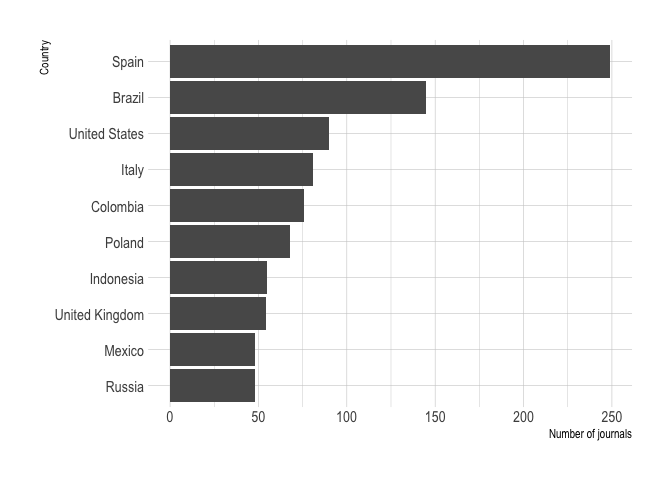
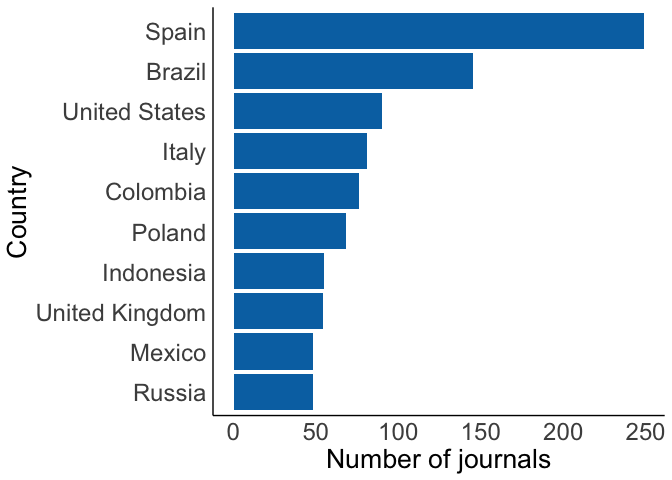
ojs global paper changes

diff --git a/scripts/ojs_global_paper.md b/scripts/ojs_global_paper.md
@@ -1,6 +1,6 @@
 Assessing OJS overlaps with scientometric databases
 ================
-Updated: July 15, 2022
+Updated: July 20, 2022
 
 -   <a href="#cleaning-raw-beacon-data"
     id="toc-cleaning-raw-beacon-data">Cleaning raw beacon data</a>
@@ -91,7 +91,7 @@ df <-
   distinct(oai_url, repository_name, set_spec, .keep_all = T)
 ```
 
-Total active OJS journals:
+Total active journals using OJS (JUOJS):
 
 ``` r
 df %>% count()
@@ -102,7 +102,7 @@ df %>% count()
     ##   <int>
     ## 1 25671
 
-Total articles published:
+Total articles published in active JUOJS:
 
 ``` r
 df %>% summarise(total = sum(total_record_count, na.rm = T))
@@ -177,8 +177,13 @@ df %>%
   head(10) %>% 
   mutate(country = fct_inorder(country) %>% fct_rev()) %>% 
   ggplot(aes(country, n)) +
-  geom_col() +
-  hrbrthemes::theme_ipsum() +
+  geom_col(fill = "#0072B2") +
+  theme_classic() +
+  theme(
+    axis.title = element_text(size = 20),
+    axis.text = element_text(size = 18),
+    axis.ticks = element_blank()
+  ) +
   coord_flip() +
   labs(
     x = "Country", y = "Number of journals"
@@ -254,8 +259,13 @@ bind_rows(df_join_a, df_join_b) %>%
   head(10) %>% 
   mutate(country = fct_inorder(country) %>% fct_rev()) %>% 
   ggplot(aes(country, n)) +
-  geom_col() +
-  hrbrthemes::theme_ipsum() +
+  geom_col(fill = "#0072B2") +
+  theme_classic() +
+  theme(
+    axis.title = element_text(size = 20),
+    axis.text = element_text(size = 18),
+    axis.ticks = element_blank()
+  ) +
   coord_flip() +
   labs(
     x = "Country", y = "Number of journals"
@@ -332,8 +342,13 @@ bind_rows(df_join_a, df_join_b) %>%
   head(10) %>% 
   mutate(country = fct_inorder(country) %>% fct_rev()) %>% 
   ggplot(aes(country, n)) +
-  geom_col() +
-  hrbrthemes::theme_ipsum() +
+  geom_col(fill = "#0072B2") +
+  theme_classic() +
+  theme(
+    axis.title = element_text(size = 20),
+    axis.text = element_text(size = 18),
+    axis.ticks = element_blank()
+  ) +
   coord_flip() +
   labs(
     x = "Country", y = "Number of journals"
@@ -386,9 +401,14 @@ df %>%
   head(10) %>% 
   mutate(country = fct_inorder(country) %>% fct_rev()) %>% 
   ggplot(aes(country, n)) +
-  geom_col() +
-  hrbrthemes::theme_ipsum() +
+  geom_col(fill = "#0072B2") +
   coord_flip() +
+  theme_classic() +
+  theme(
+    axis.title = element_text(size = 20),
+    axis.text = element_text(size = 10),
+    axis.ticks = element_blank()
+  ) +
   labs(
     x = "Country", y = "Number of journals"
   )
@@ -400,6 +420,7 @@ df %>%
 
 ``` r
 # Read in python processed google scholar URLs
+## first iteration using journal URLs ##
 
 df_gscholar <- 
   read_csv(here::here("scripts/gscholar_urls_mapped.csv")) %>% 
@@ -507,9 +528,14 @@ bind_cols(
   mutate(country = fct_inorder(country) %>% fct_rev()) %>% 
   head(10) %>% 
   ggplot(aes(country, n)) +
-  geom_col() +
+  geom_col(fill = "#0072B2") +
   scale_y_continuous(breaks = scales::breaks_width(1000)) +
-  theme_minimal() +
+  theme_classic() +
+  theme(
+    axis.title = element_text(size = 20),
+    axis.text = element_text(size = 10),
+    axis.ticks = element_blank()
+  ) +
   coord_flip() +
   labs(x = "Country", y = "Total journals")
 ```
@@ -520,17 +546,27 @@ Number of citations on first Scholar page:
 
 ``` r
 # number of citations on first gscholar page
-domains_in_scholar %>%
-  mutate(n_citations = pmin(n_citations, 500)) %>% 
-  ggplot(aes(n_citations)) +
+bind_cols(
+    df_gscholar,
+    df_gscholar %>% pull(url) %>% domain() %>% tld_extract()
+  ) %>% 
+  inner_join(domains_in_scholar, by = "domain") %>% 
+  select(domain, url, n_citations) %>% 
+  group_by(domain) %>% 
+  mutate(journals_within_this_domain = n()) %>% 
+  ungroup() %>% 
+  mutate(
+    n_citations_by_journal = round(n_citations/journals_within_this_domain),
+    n_citations_by_journal = pmin(n_citations_by_journal, 500)
+  ) %>%
+  select(url, n_citations_by_journal) %>%
+  ggplot(aes(n_citations_by_journal)) +
   geom_histogram(binwidth = 20, fill = "#0072B2") +
   scale_x_continuous(labels = c("0", "100", "200", "300", "400", "500+")) +
-  hrbrthemes::theme_ipsum() +
   labs(
-    x = "Total citations on first page",
-    y = "Number of journal domains"
+    x = "Total citations on first Google Scholar page",
+    y = "Number of journals"
   ) +
-  # coord_flip() +
   theme_classic() +
   theme(
     axis.title = element_text(size = 14),
@@ -541,11 +577,58 @@ domains_in_scholar %>%
 
 ![](ojs_global_paper_files/figure-gfm/unnamed-chunk-21-1.png)<!-- -->
 
-``` r
-# ggsave("scholar_citations.png")
+Journals with no citations on first page:
 
-# domains_in_scholar %>% arrange(-n_citations) %>% filter(n_citations >= 500)
+``` r
+# alter threshold to see proportions as needed
+threshold <- 0
+
+bind_cols(
+    df_gscholar,
+    df_gscholar %>% pull(url) %>% domain() %>% tld_extract()
+  ) %>% 
+  inner_join(domains_in_scholar, by = "domain") %>% 
+  select(domain, url, n_citations) %>% 
+  group_by(domain) %>% 
+  mutate(journals_within_this_domain = n()) %>% 
+  ungroup() %>% 
+  mutate(
+    n_citations_by_journal = round(n_citations/journals_within_this_domain),
+  ) %>%
+  count(n_citations_by_journal > threshold)
 ```
+
+    ## # A tibble: 2 × 2
+    ##   `n_citations_by_journal > threshold`     n
+    ##   <lgl>                                <int>
+    ## 1 FALSE                                  835
+    ## 2 TRUE                                 21844
+
+Summary of citations on first page:
+
+``` r
+bind_cols(
+    df_gscholar,
+    df_gscholar %>% pull(url) %>% domain() %>% tld_extract()
+  ) %>% 
+  inner_join(domains_in_scholar, by = "domain") %>% 
+  select(domain, url, n_citations) %>% 
+  group_by(domain) %>% 
+  mutate(journals_within_this_domain = n()) %>% 
+  ungroup() %>% 
+  transmute(
+    n_citations_by_journal = round(n_citations/journals_within_this_domain),
+  ) %>%
+  summary()
+```
+
+    ##  n_citations_by_journal
+    ##  Min.   :    0.0       
+    ##  1st Qu.:   18.0       
+    ##  Median :   59.0       
+    ##  Mean   :  135.2       
+    ##  3rd Qu.:  139.0       
+    ##  Max.   :59728.0
 
 ### Latindex
 
@@ -626,7 +709,7 @@ bind_rows(df_join_a, df_join_b) %>%
   )
 ```
 
-![](ojs_global_paper_files/figure-gfm/unnamed-chunk-23-1.png)<!-- -->
+![](ojs_global_paper_files/figure-gfm/unnamed-chunk-25-1.png)<!-- -->
 
 Latin American countries for JUOJS:
 
